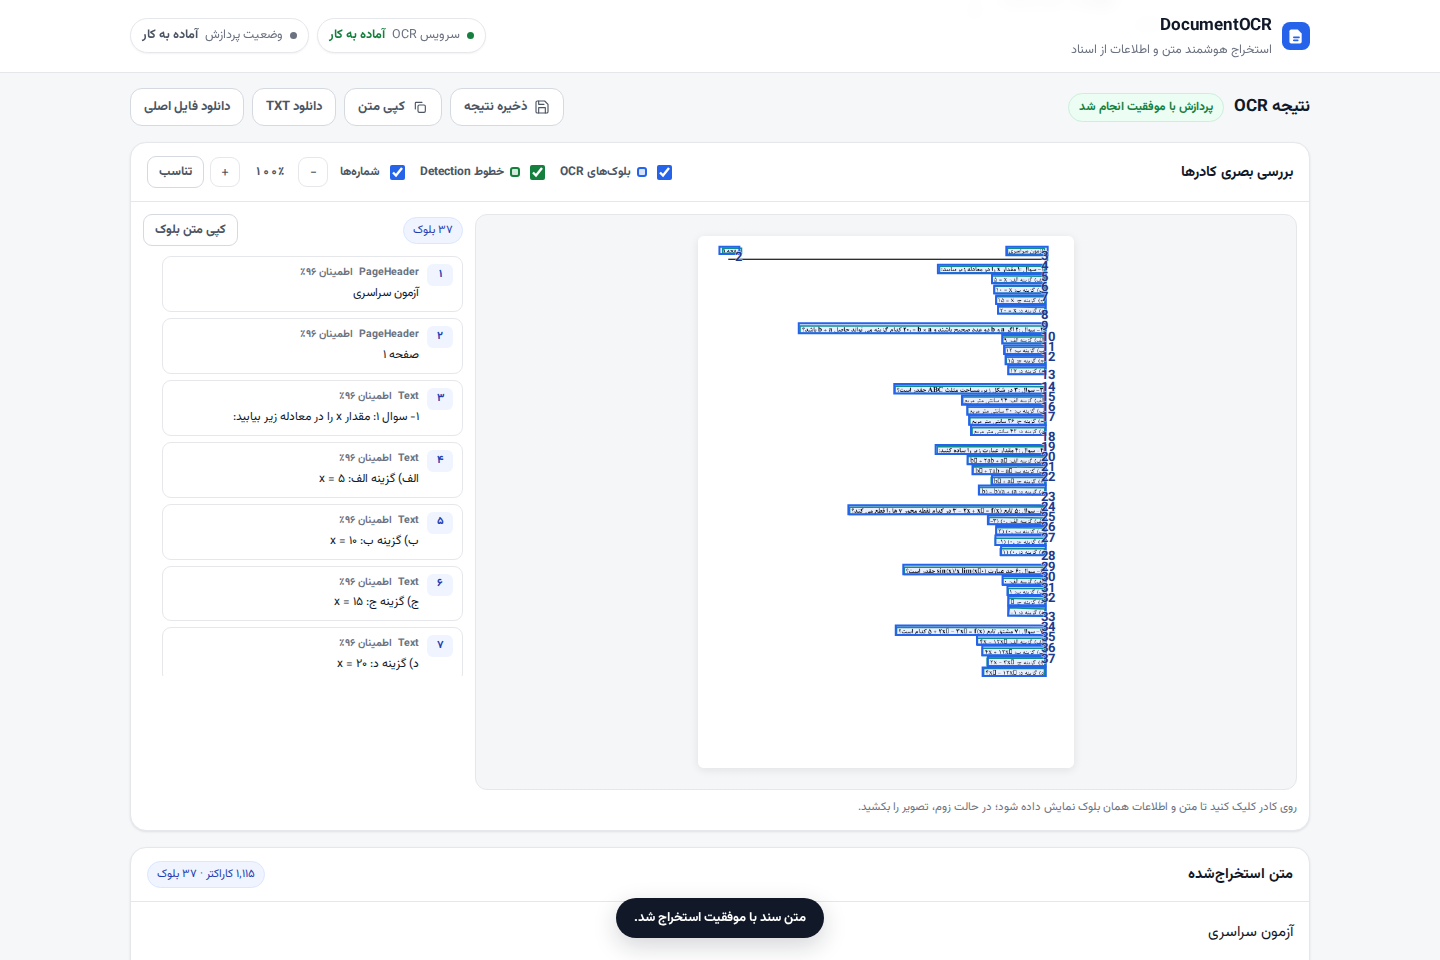
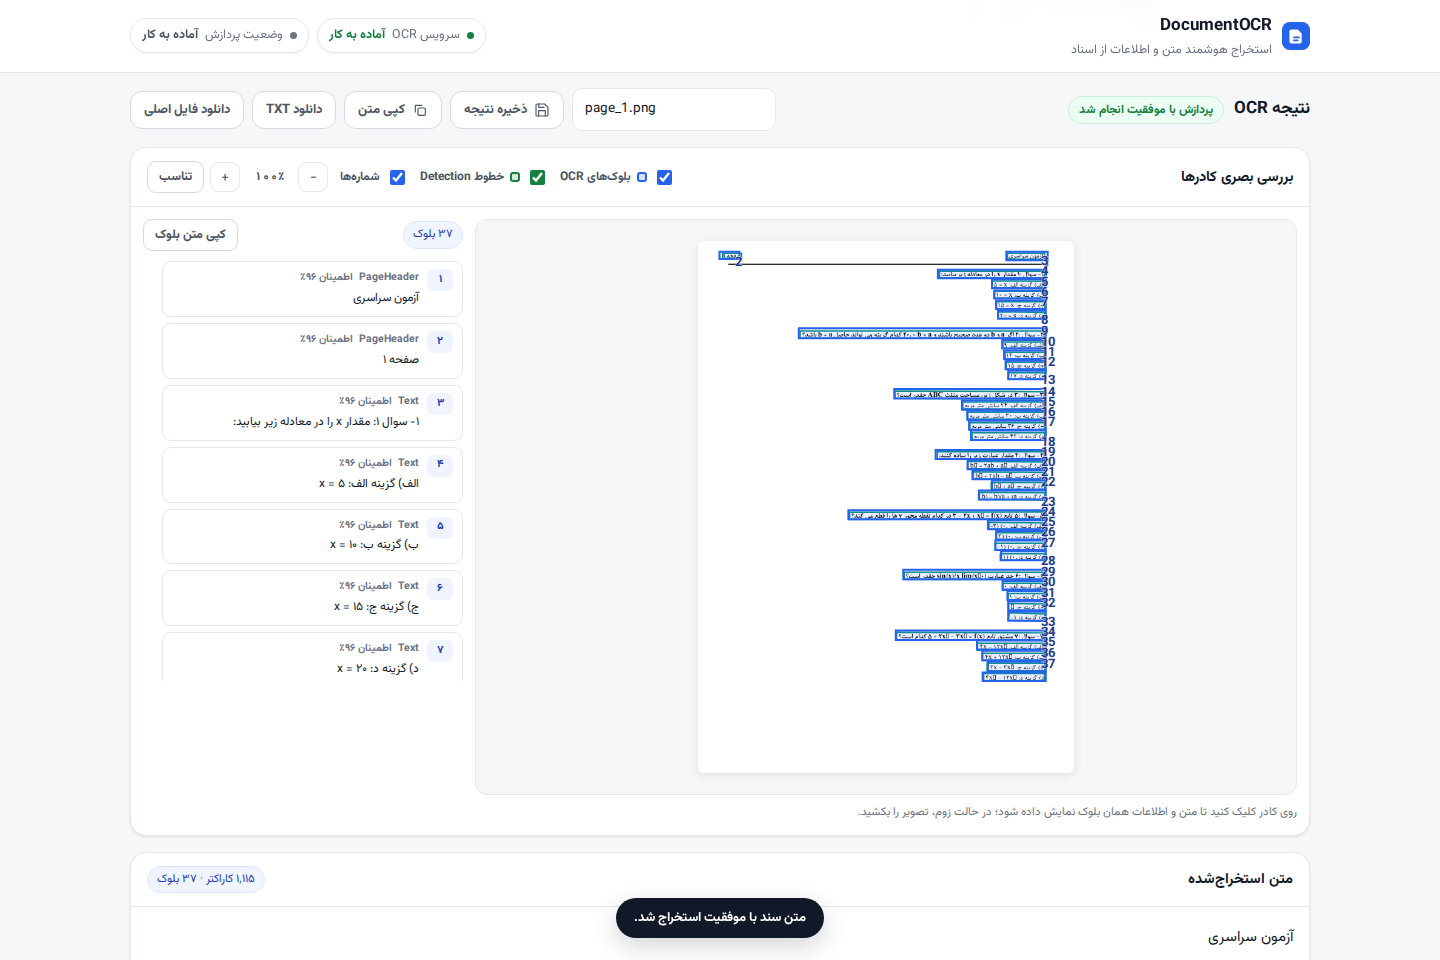
feat(saved): rename saved results at save-time and post-save inline rename
- Save-time: optional 'name' input next to Save button, pre-filled from default file name, sent as name in POST /api/saved
- Post-save: inline edit button on each saved-result row (Enter commit, Esc cancel, blur commit) with optimistic UI update + toast
- Backend: rename_saved() atomic meta.json rewrite (tmp + os.replace), PATCH /api/saved/<id>, _clean_label sanitization shared by both paths
- Tests: new ui_rename_e2e (7/7 PASS incl. persistence after reload + cleanup); regression full suites green (smoke 36, saved 15, persistence_fields 27)
- Report: 0.9 section

diff --git a/generalocr /general_ocr-main/webui/static/app.js b/generalocr /general_ocr-main/webui/static/app.js
@@ -83,6 +83,7 @@
     bbInfoBbox: $("bb-info-bbox"),
     bbList: $("bb-list"),
     saveResult: $("save-result"),
+    saveNameInput: $("save-name-input"),
     savedList: $("saved-list"),
     savedCount: $("saved-count"),
     savedEmpty: $("saved-empty"),
@@ -441,6 +442,10 @@
 
   function renderResult(data, clientMs) {
     els.result.hidden = false;
+    if (els.saveNameInput) {
+      els.saveNameInput.value = data.file || "";
+      els.saveNameInput.style.display = "block";
+    }
 
     const pages = data.pages || [];
     const page = pages[state.pageIndex] || pages[0];
@@ -1367,7 +1372,7 @@
     if (!data) return null;
     const payload = {
       ok: true,
-      file: data.file,
+      file: (els.saveNameInput && els.saveNameInput.value.trim()) || data.file,
       kind: data.kind,
       page_count: data.page_count,
       elapsed_ms: data.elapsed_ms,
@@ -1419,6 +1424,59 @@
     }
   }
 
+  async function startRename(row, id, currentName, onDone) {
+    const nameSpan = row.querySelector(".saved-row__name");
+    if (!nameSpan || row.querySelector(".saved-row__rename-input")) return;
+    const input = document.createElement("input");
+    input.type = "text";
+    input.className = "saved-row__rename-input";
+    input.maxLength = 100;
+    input.dir = "auto";
+    input.value = currentName || "";
+    nameSpan.replaceWith(input);
+    input.focus();
+    input.select();
+
+    let done = false;
+    const finish = async (save) => {
+      if (done) return;
+      done = true;
+      const val = input.value.trim();
+      const span = document.createElement("span");
+      span.className = "saved-row__name";
+      span.setAttribute("dir", "auto");
+      input.replaceWith(span);
+      if (!save || !val || val === (currentName || "")) {
+        span.textContent = currentName || "document";
+        return;
+      }
+      span.textContent = "...";
+      try {
+        const res = await fetch(`/api/saved/${id}`, {
+          method: "PATCH",
+          headers: { "Content-Type": "application/json; charset=utf-8" },
+          body: JSON.stringify({ name: val }),
+        });
+        const data = await res.json().catch(() => null);
+        if (!res.ok || !data || !data.ok) {
+          throw { message: (data && data.message) || "تغییر نام ناموفق بود." };
+        }
+        span.textContent = data.name;
+        if (onDone) onDone(data.name);
+        toast(`نام به «${data.name}» تغییر کرد.`);
+      } catch (err) {
+        span.textContent = currentName || "document";
+        if (err && err.message) showError(err.message, err.hint || "");
+        else showError("تغییر نام ناموفق بود.", "اتصال سرور را بررسی کنید.");
+      }
+    };
+    input.addEventListener("keydown", (e) => {
+      if (e.key === "Enter") { e.preventDefault(); finish(true); }
+      else if (e.key === "Escape") { e.preventDefault(); finish(false); }
+    });
+    input.addEventListener("blur", () => finish(true));
+  }
+
   function renderSavedList(items) {
     els.savedList.innerHTML = "";
     els.savedCount.textContent = faNum(items.length);
@@ -1451,6 +1509,20 @@
       del.title = "حذف";
       del.innerHTML = '<svg viewBox="0 0 24 24" width="16" height="16" fill="none" stroke="currentColor" stroke-width="1.8" stroke-linecap="round" aria-hidden="true"><path d="M4 7h16M9 7V4h6v3m-8 0 1 13h8l1-13"/></svg>';
 
+      const rename = document.createElement("button");
+      rename.type = "button";
+      rename.className = "icon-btn icon-btn--sm saved-row__rename";
+      rename.setAttribute("aria-label", `تغییر نام ${item.name || "نتیجهٔ ذخیرهشده"}`);
+      rename.title = "تغییر نام";
+      rename.innerHTML = '<svg viewBox="0 0 24 24" width="16" height="16" fill="none" stroke="currentColor" stroke-width="1.8" stroke-linecap="round" aria-hidden="true"><path d="M11 4H4a2 2 0 0 0-2 2v14a2 2 0 0 0 2 2h14a2 2 0 0 0 2-2v-7"/><path d="M18.5 2.5a2.121 2.121 0 0 1 3 3L12 15l-4 1 1-4Z"/></svg>';
+      rename.addEventListener("click", (e) => {
+        e.stopPropagation();
+        startRename(row, item.id, item.name, (newName) => {
+          const nameSpan = row.querySelector(".saved-row__name");
+          if (nameSpan) nameSpan.textContent = newName;
+        });
+      });
+
       const open = () => loadSaved(item.id);
       row.addEventListener("click", open);
       row.addEventListener("keydown", (e) => {
@@ -1462,6 +1534,7 @@
       });
 
       row.appendChild(body);
+      row.appendChild(rename);
       row.appendChild(del);
       els.savedList.appendChild(row);
     });

diff --git a/generalocr /general_ocr-main/webui/static/styles.css b/generalocr /general_ocr-main/webui/static/styles.css
@@ -701,6 +701,21 @@ img, pre, iframe { max-width: 100%; }
   flex-wrap: wrap;
 }
 
+.save-name-input {
+  flex: 1 1 180px;
+  min-width: 0;
+  font: inherit;
+  font-size: 13.5px;
+  padding: 9px 12px;
+  border: 1px solid var(--border, #e2e8f0);
+  border-radius: 10px;
+  background: var(--surface, #fff);
+  color: var(--text, #0f172a);
+  outline: none;
+  transition: border-color .15s, box-shadow .15s;
+}
+.save-name-input:hover, .save-name-input:focus-visible { border-color: var(--primary, #2563eb); box-shadow: 0 0 0 3px rgba(37, 99, 235, .12); }
+
 .head-actions {
   display: flex;
   align-items: center;
@@ -1178,6 +1193,13 @@ img, pre, iframe { max-width: 100%; }
 .saved-row__meta { font-size: 12px; color: var(--muted, #64748b); }
 .saved-row__del { flex: 0 0 auto; color: var(--muted, #64748b); }
 .saved-row__del:hover { color: #dc2626; }
+.saved-row__rename { flex: 0 0 auto; color: var(--muted, #64748b); }
+.saved-row__rename:hover { color: var(--primary, #2563eb); }
+.saved-row__rename-input {
+  flex: 1; min-width: 0; font: inherit; font-size: 13.5px; font-weight: 600;
+  padding: 3px 6px; border: 1px solid var(--primary, #2563eb); border-radius: 6px;
+  background: #fff; color: var(--text, #0f172a); outline: none;
+}
 .saved-empty { font-size: 12.5px; color: var(--muted, #64748b); margin: 4px 2px 0; }
 
 /* ---------------- table parent + inner field boxes ---------------- */

diff --git a/generalocr /general_ocr-main/webui/static/index.html b/generalocr /general_ocr-main/webui/static/index.html
@@ -178,6 +178,8 @@
         <span class="badge badge--ok" id="result-badge">پردازش با موفقیت انجام شد</span>
       </div>
       <div class="result__actions">
+        <input type="text" id="save-name-input" class="save-name-input" maxlength="100" dir="auto"
+               autocomplete="off" placeholder="نام سند (اختیاری)" style="display:none">
         <button type="button" class="btn btn--ghost btn--sm" id="save-result" disabled>
           <svg viewBox="0 0 24 24" width="16" height="16" fill="none" stroke="currentColor" stroke-width="1.7" stroke-linecap="round" stroke-linejoin="round" aria-hidden="true">
             <path d="M19 21H5a2 2 0 0 1-2-2V5a2 2 0 0 1 2-2h11l5 5v11a2 2 0 0 1-2 2Z"/>

diff --git a/generalocr /general_ocr-main/webui/server.py b/generalocr /general_ocr-main/webui/server.py
@@ -678,7 +678,8 @@ def save_result(payload: dict) -> dict:
 
         meta = {
             "id": save_id,
-            "name": payload.get("file") or "document",
+            "name": (_clean_label(payload.get("file"))
+                     if payload.get("file") else "document"),
             "kind": payload.get("kind") or "image",
             "page_count": payload.get("page_count") or len(clean_pages),
             "elapsed_ms": payload.get("elapsed_ms"),
@@ -771,6 +772,43 @@ def delete_saved(save_id: str) -> dict:
     shutil.rmtree(path, ignore_errors=True)
     logger.info(f"OCR result deleted: id={save_id}")
     return {"ok": True, "id": save_id}
+
+
+_SAFE_LABEL = re.compile(r"[^0-9A-Za-z\u0600-\u06FF ._،؛():\-]+")
+_LABEL_MAX_LEN = 100
+
+
+def _clean_label(raw) -> str:
+    """Sanitize a user-provided display name (no path, no control chars)."""
+    if not isinstance(raw, str):
+        raise HttpError(400, "bad_name", "نام باید یک رشتهٔ متنی باشد.")
+    name = _SAFE_LABEL.sub("_", raw)
+    name = re.sub(r"\s+", " ", name).strip(" ._-")
+    name = name[:_LABEL_MAX_LEN].strip()
+    if not name:
+        raise HttpError(400, "bad_name", "نام نمیتواند خالی باشد.",
+                        "یک نام معتبر وارد کنید.")
+    return name
+
+
+def rename_saved(save_id: str, new_name) -> dict:
+    """Change the display name of a saved result (meta.json rewrite, atomic)."""
+    meta = _load_meta(save_id)  # 404 if missing; also validates the id
+    old_name = meta.get("name")
+    meta["name"] = _clean_label(new_name)
+    meta_path = os.path.join(_save_dir(save_id), "meta.json")
+    tmp_path = meta_path + ".tmp"
+    try:
+        with open(tmp_path, "w", encoding="utf-8") as f:
+            json.dump(meta, f, ensure_ascii=False)
+        os.replace(tmp_path, meta_path)  # atomic publish
+    except Exception as exc:  # noqa: BLE001
+        if os.path.isfile(tmp_path):
+            os.remove(tmp_path)
+        logger.error(f"rename_saved failed: {exc}\n{traceback.format_exc()}")
+        raise HttpError(500, "rename_failed", "تغییر نام ناموفق بود.") from exc
+    logger.info(f"OCR result renamed: id={save_id} {old_name!r} -> {meta['name']!r}")
+    return {"ok": True, "id": save_id, "name": meta["name"]}
 
 
 _DIGIT_RUN = re.compile(r"[0-9۰-۹][0-9۰-۹.,/\-]*")
@@ -1178,6 +1216,31 @@ class Handler(BaseHTTPRequestHandler):
             self._send_json(err.status, {"ok": False, "code": err.code, "message": err.message, "hint": err.hint})
         except Exception as exc:  # noqa: BLE001
             logger.error(f"DELETE {path} failed: {exc}\n{traceback.format_exc()}")
+            self._send_json(500, {"ok": False, "code": "server_error", "message": "خطای داخلی سرور."})
+
+    def do_PATCH(self):
+        path = urlparse(self.path).path
+        try:
+            if path.startswith("/api/saved/"):
+                length = int(self.headers.get("Content-Length") or 0)
+                if length <= 0:
+                    raise HttpError(400, "empty_body", "دادهای ارسال نشده است.")
+                if length > 64 * 1024:
+                    raise HttpError(413, "too_large", "بدنهٔ درخواست بیش از حد بزرگ است.")
+                body = self.rfile.read(length)
+                try:
+                    payload = json.loads(body.decode("utf-8"))
+                except Exception:  # noqa: BLE001
+                    raise HttpError(400, "bad_json", "بدنهٔ درخواست JSON معتبر نیست.")
+                if not isinstance(payload, dict) or "name" not in payload:
+                    raise HttpError(400, "bad_payload", "فیلد «name» الزامی است.")
+                self._send_json(200, rename_saved(path[len("/api/saved/"):], payload["name"]))
+            else:
+                self._send_json(404, {"ok": False, "code": "not_found", "message": "مسیر یافت نشد."})
+        except HttpError as err:
+            self._send_json(err.status, {"ok": False, "code": err.code, "message": err.message, "hint": err.hint})
+        except Exception as exc:  # noqa: BLE001
+            logger.error(f"PATCH {path} failed: {exc}\n{traceback.format_exc()}")
             self._send_json(500, {"ok": False, "code": "server_error", "message": "خطای داخلی سرور."})
 
 

diff --git a/docs/reports/2026-11-15_TableFields.md b/docs/reports/2026-11-15_TableFields.md
@@ -356,6 +356,31 @@ python3 webui/tests/ui_smoke.py && python3 webui/tests/ui_bbox_viewer.py && pyth
 
 ---
 
+## ۰.۹ تغییر نام سند — هنگام ذخیره و بعد از ذخیره (۱۶ نوامبر)
+
+### ۰.۹.۱ قابلیت
+
+| محل | رابط کاربری | رفتار |
+|---|---|---|
+| **هنگام ذخیره** | فیلد «نام سند (اختیاری)» کنار دکمهٔ «ذخیره نتیجه» — پس از OCR ظاهر و با نام فایل پیشپر میشود | مقدار واردشده جایگزین نام پیشفرض فایل در POST `/api/saved` میشود |
+| **بعد از ذخیره** | دکمهٔ ✏ روی هر ردیف فهرست «نتایج ذخیرهشده» | ویرایش درونخطی: Enter ذخیره، Esc لغو، بلور ذخیره؛ نام در همان لحظه در لیست بهروز میشود + toast |
+
+### ۰.۹.۲ بکاند
+
+- `rename_saved(save_id, new_name)` — بازنویسی اتمی `meta.json` (tmp + `os.replace`)، همان الگوی `save_result`.
+- مسیر جدید: `PATCH /api/saved/<id>` با بدنهٔ JSON `{"name": ...}`.
+- پاکسازی نام در هر دو مسیر (`_clean_label`): فقط حروف/ارقام فارسی-لاتین، فاصله و نشانههای امن؛ حداکثر ۱۰۰ کاراکتر؛ نام خالی → ۴۰۰.
+- خطاها: `bad_id` (شناسه نامعتبر)، `not_found` (۴۰۴)، `bad_name` (نام خالی)، `bad_json`/`bad_payload`.
+
+### ۰.۹.۳ تستها
+
+- **Playwright E2E جدید (`ui_rename_e2e`): ۷/۷ PASS** — ذخیره با نام سفارشی → نام در لیست؛ تغییر نام درونخطی → بهروز شدن؛ **پایداری پس از reload**؛ بازگردانی + حذف آیتم تست (پاکسازی).
+- رگرسیون: `ui_smoke` ۳۶/۳۶ · `ui_saved_results` ۱۵/۱۵ · `ui_persistence_fields` ۲۷/۲۷.
+- تست مستقیم API با curl: rename موفق، نام خالی ۴۰۰، شناسهٔ بد ۴۰۰، شناسهٔ ناشناس ۴۰۴.
+- اسکرینشاتها: `25_rename_save_time.png`، `25_rename_after_reload.png`.
+
+---
+
 ## ۰.۷ مخازن گیت
 
 ```
